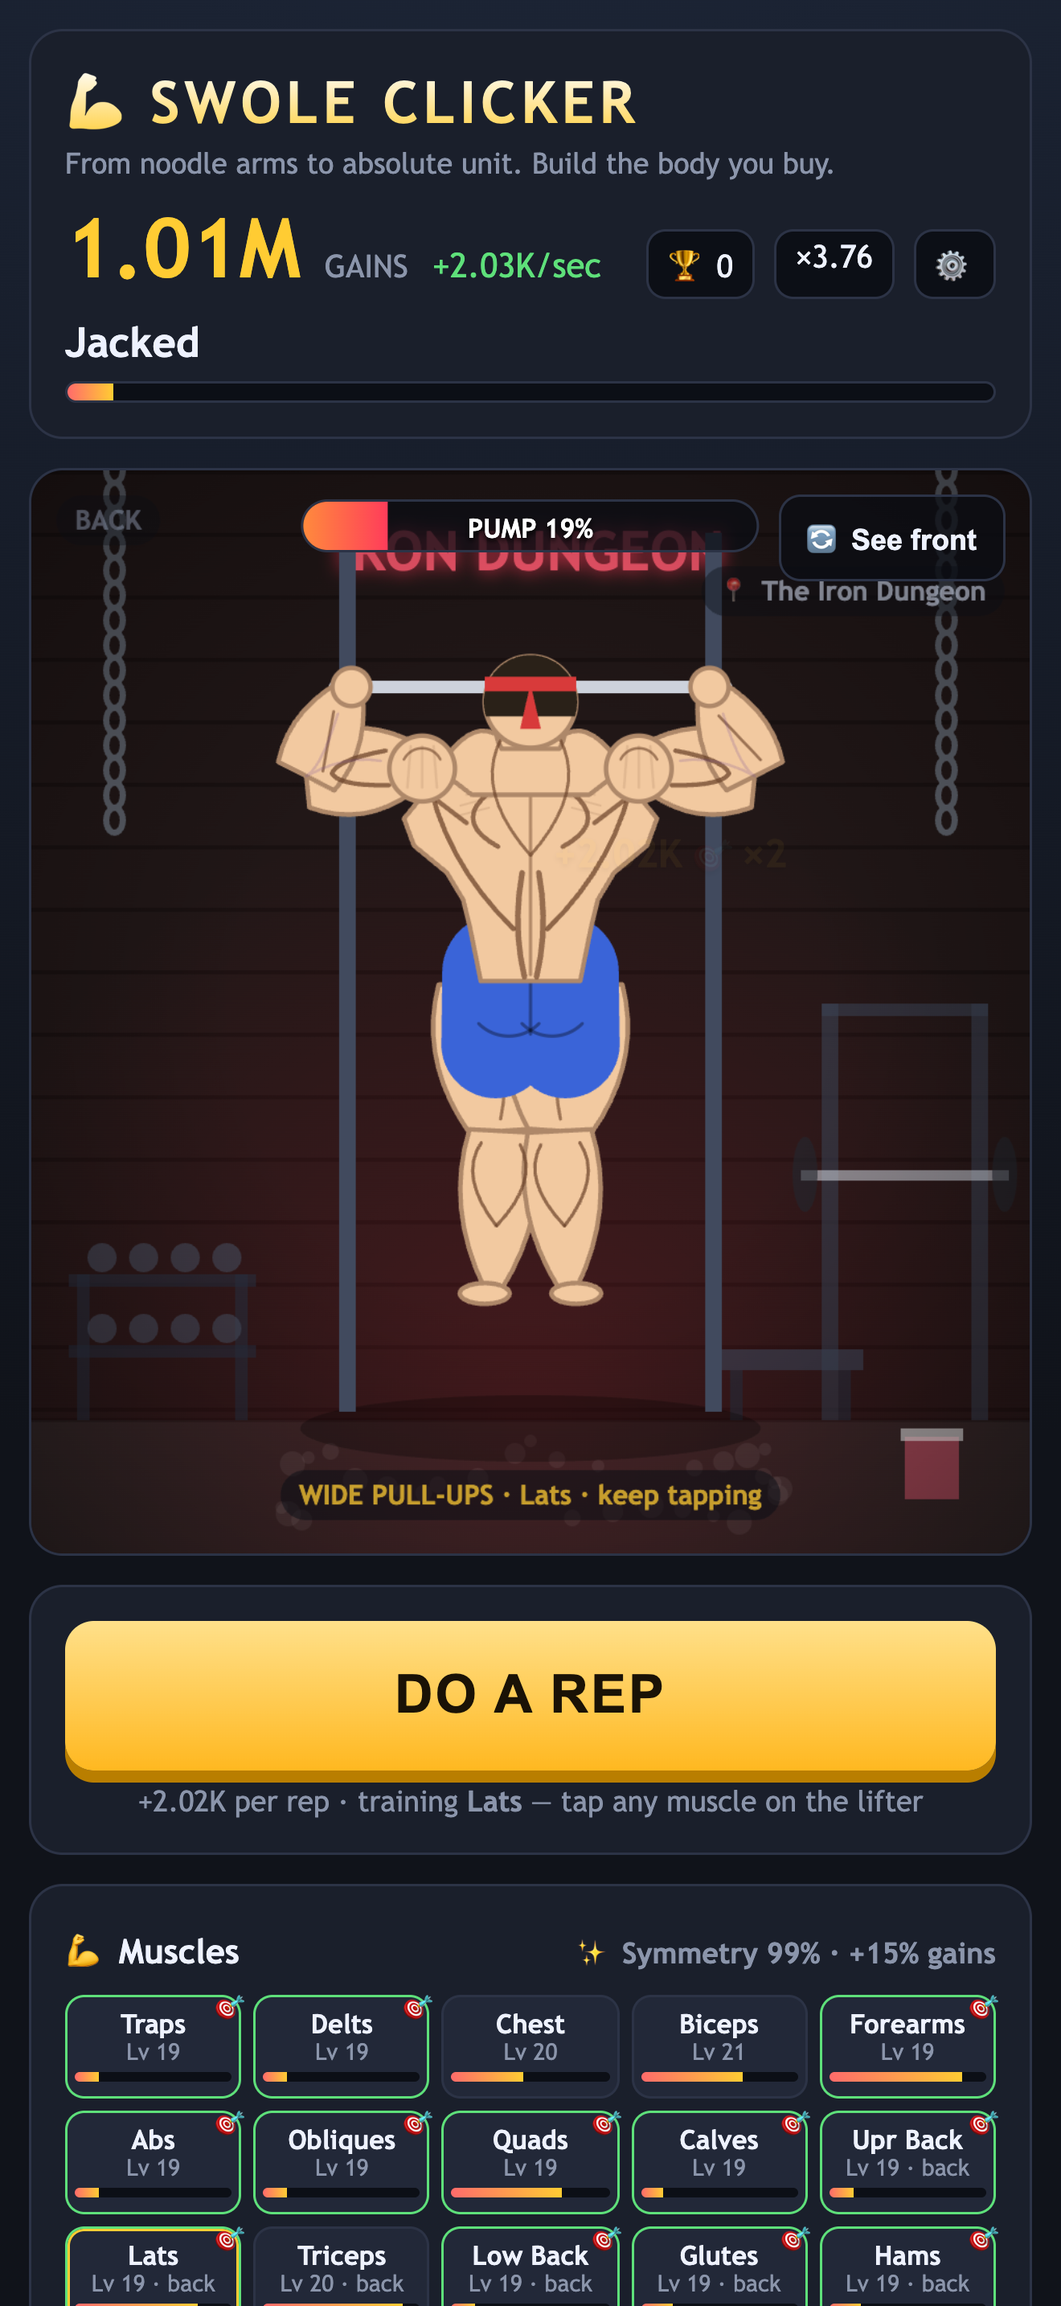
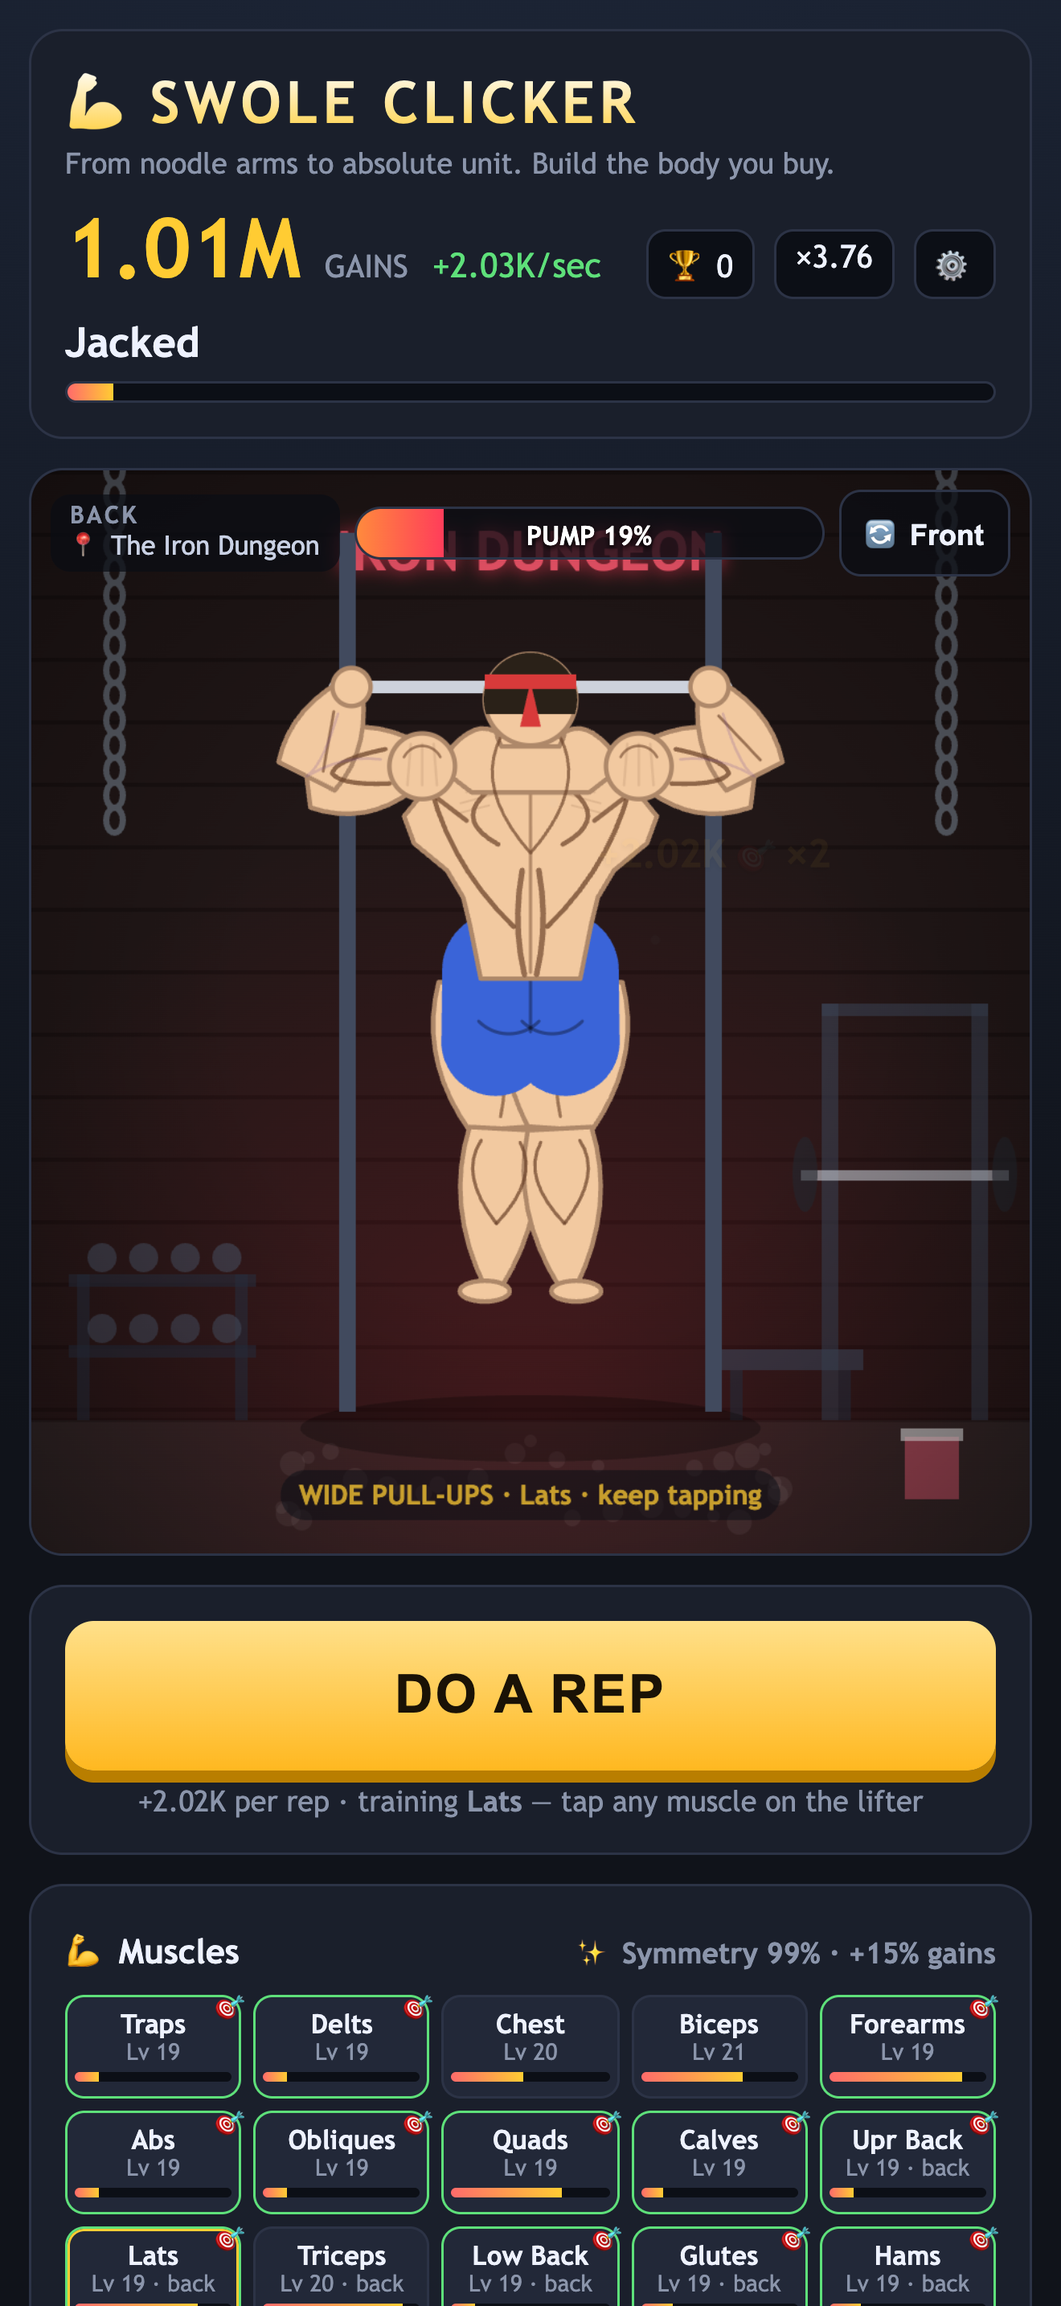
Stage HUD: one flex bar so view/gym, pump bar and turn button never overlap
- View + current gym, pump bar and turn button now share one flex row at the
  top of the stage (gym name truncates instead of colliding); removed the
  canvas-drawn FRONT/gym pills; desktop hover label moved to the bottom
- Active-boost timers sit under the HUD instead of near the bottom labels
- Toasts no longer block taps on the HUD; narrow landscape phones get slimmer
  side columns and a smaller title
- Verified no overlaps at 375x667, 375x812, 440x956, 667x375, 844x390,
  874x402 (with iOS safe areas), 800x450, 768x1024, 1280x720, 1920x1080
- Refreshed App Store screenshots

diff --git a/index.html b/index.html
@@ -65,6 +65,12 @@
     #left > .card{overflow:auto}
     #game #tabs{grid-template-columns:repeat(auto-fill,minmax(88px,1fr))}
   }
+  /* narrow landscape phones (e.g. iPhone SE 667×375): slimmer side columns so the lifter keeps room */
+  @media (orientation:landscape) and (min-width:640px) and (max-width:760px){
+    #game{grid-template-columns:165px minmax(0,1fr) 215px}
+    #game #tabs{grid-template-columns:repeat(2,1fr)}
+    #game h1{font-size:13px; letter-spacing:0}
+  }
   /* short landscape screens (e.g. 800×450): compact the left column */
   @media (orientation:landscape) and (max-height:560px) and (min-width:640px){
     #game{padding:8px; gap:8px}
@@ -166,7 +172,7 @@
   #prestigebtn:disabled{filter:grayscale(.7) brightness(.7); cursor:not-allowed; box-shadow:0 4px 0 #333}
 
   /* toasts + modal */
-  #toasts{position:fixed; top:14px; left:50%; transform:translateX(-50%); z-index:100; display:flex; flex-direction:column; gap:8px; align-items:center}
+  #toasts{position:fixed; top:14px; left:50%; transform:translateX(-50%); z-index:100; pointer-events:none; display:flex; flex-direction:column; gap:8px; align-items:center}
   .toast{background:#241c33; border:1px solid var(--gold); color:#fff; padding:10px 16px; border-radius:10px;
          font-size:14px; box-shadow:0 6px 20px rgba(0,0,0,.5); animation:toastin .3s; max-width:90vw}
   .toast b{color:var(--gold)}
@@ -194,7 +200,7 @@
   #stage.onstage{position:fixed; inset:0; z-index:110; border-radius:0; display:flex; flex-direction:column; align-items:center; justify-content:center;
     background:radial-gradient(ellipse 45% 70% at 50% 35%, rgba(255,240,190,.28), rgba(0,0,0,0) 70%), #07080c}
   #stage.onstage canvas{width:auto; height:min(62vh,560px); max-width:100vw}
-  #stage.onstage .stagebtn, #stage.onstage #pumpbar, #stage.onstage #fxbox, #stage.onstage .gymevt{display:none}
+  #stage.onstage #hud, #stage.onstage #fxbox, #stage.onstage .gymevt{display:none}
   #stageov{width:100%; max-width:560px; padding:0 14px; text-align:center}
   .stitle{position:fixed; top:14px; left:0; right:0; font-size:22px; font-weight:bold; letter-spacing:3px; color:var(--gold); text-shadow:0 0 18px rgba(255,210,74,.6)}
   .judges{display:flex; gap:10px; justify-content:center; margin-top:8px}
@@ -239,13 +245,19 @@
   #tabs{display:grid; grid-template-columns:repeat(4,1fr); gap:6px}
   .tab{white-space:nowrap}
   /* pump meter + active effects */
-  #pumpbar{position:absolute; top:12px; left:50%; transform:translateX(-50%); width:min(46%,220px); height:22px; background:rgba(10,13,20,.72);
-           border:1px solid var(--line); border-radius:11px; overflow:hidden; z-index:2; pointer-events:none}
+  /* stage HUD: one flex row across the top of the stage so its pieces share the width instead of overlapping */
+  #hud{position:absolute; top:8px; left:8px; right:8px; z-index:2; display:flex; align-items:center; gap:6px; pointer-events:none}
+  #hudinfo{flex:0 1 auto; min-width:0; display:flex; flex-direction:column; line-height:1.2; background:rgba(10,13,20,.72);
+           border-radius:8px; padding:3px 8px}
+  #hudinfo b{font-size:10px; letter-spacing:1px; color:var(--muted)}
+  #hudinfo span{font-size:11px; color:#c9d1e4; white-space:nowrap; overflow:hidden; text-overflow:ellipsis}
+  #pumpbar{position:relative; flex:1 1 90px; min-width:64px; max-width:240px; margin:0 auto; height:22px; background:rgba(10,13,20,.72);
+           border:1px solid var(--line); border-radius:11px; overflow:hidden}
   #pumpbar i{position:absolute; left:0; top:0; bottom:0; width:0; background:linear-gradient(90deg,#ff8a3d,#ff3d5a)}
-  #pumpbar span{position:relative; display:block; text-align:center; font-size:11px; font-weight:bold; line-height:22px; color:#fff; text-shadow:0 1px 2px #000}
+  #pumpbar span{position:relative; display:block; text-align:center; font-size:11px; font-weight:bold; line-height:22px; color:#fff; text-shadow:0 1px 2px #000; white-space:nowrap; overflow:hidden; text-overflow:ellipsis; padding:0 4px}
   #stage.beast{box-shadow:0 0 0 2px #ff3d5a, 0 0 28px rgba(255,61,90,.55)}
   #stage.beast #pumpbar{border-color:#ff3d5a}
-  #fxbox{position:absolute; left:10px; bottom:46px; display:flex; flex-direction:column; gap:4px; z-index:2; pointer-events:none}
+  #fxbox{position:absolute; left:10px; top:46px; display:flex; flex-direction:column; align-items:flex-start; gap:4px; z-index:2; pointer-events:none}   /* active boosts sit under the HUD bar */
   #fxbox span{background:rgba(10,13,20,.78); border:1px solid var(--gold); color:#fff; font-size:11px; font-weight:bold; padding:3px 8px; border-radius:8px}
   .gymevt{position:absolute; z-index:3; display:flex; align-items:center; gap:6px; background:rgba(10,13,20,.85); border:2px solid var(--gold); border-radius:20px;
           padding:5px 11px 5px 6px; cursor:pointer; animation:evtpop .3s, evtbob 1.2s ease-in-out infinite .3s; box-shadow:0 0 18px rgba(255,210,74,.45)}
@@ -287,8 +299,8 @@
   .awin{font-size:30px; font-weight:bold; text-align:center; color:var(--gold)} .alose{font-size:24px; font-weight:bold; text-align:center; color:var(--accent2)}
   .arew{font-size:24px; text-align:center; color:var(--good); font-weight:bold}
   /* muscle chips + turn button */
-  .stagebtn{position:absolute; top:10px; right:10px; z-index:2; background:rgba(10,13,20,.72); color:var(--ink);
-            border:1px solid var(--line); border-radius:9px; padding:7px 11px; font-size:12px; font-weight:bold; cursor:pointer}
+  .stagebtn{flex:none; pointer-events:auto; background:rgba(10,13,20,.72); color:var(--ink); white-space:nowrap;
+            border:1px solid var(--line); border-radius:9px; padding:7px 10px; font-size:12px; font-weight:bold; cursor:pointer}
   .stagebtn:hover{border-color:var(--accent)}
   .mushead{display:flex; justify-content:space-between; align-items:baseline; gap:8px; font-weight:bold; font-size:14px}
   .mushead .sub{text-align:right}
@@ -393,8 +405,11 @@
 
     <div id="stage" class="card" style="padding:0">
       <canvas id="c"></canvas>
-      <button id="turnbtn" class="stagebtn">🔄 See back</button>
-      <div id="pumpbar"><i id="pumpfill"></i><span id="pumplabel">PUMP — tap fast!</span></div>
+      <div id="hud">
+        <div id="hudinfo"><b id="hudview">FRONT</b><span id="hudgym"></span></div>
+        <div id="pumpbar"><i id="pumpfill"></i><span id="pumplabel">PUMP</span></div>
+        <button id="turnbtn" class="stagebtn">🔄 Back</button>
+      </div>
       <div id="fxbox"></div>
       <div id="floatwrap"></div>
     </div>
@@ -1873,7 +1888,7 @@ function tickPump(dt){
   if(beastT>0){ beastT=Math.max(0,beastT-dt); pumpMeter=beastT/beastLen(); if(beastT<=0){ pumpMeter=0; $('stage').classList.remove('beast'); } }
   else if(performance.now()-lastRepAt>800) pumpMeter=Math.max(0,pumpMeter-dt*0.25);
   const bar=$('pumpfill'); if(bar){ bar.style.width=(pumpMeter*100).toFixed(1)+'%'; }
-  const lab=$('pumplabel'); if(lab) lab.textContent=beastT>0?`😤 BEAST MODE ${Math.ceil(beastT)}s`:(pumpMeter>0.02?'PUMP '+Math.round(pumpMeter*100)+'%':'PUMP — tap fast!');
+  const lab=$('pumplabel'); if(lab) lab.textContent=beastT>0?`😤 BEAST ${Math.ceil(beastT)}s`:(pumpMeter>0.02?'PUMP '+Math.round(pumpMeter*100)+'%':'PUMP');
 }
 
 //////////////////// GYM EVENTS ////////////////////
@@ -2179,7 +2194,10 @@ function updateMusChips(){
     mu.el.classList.toggle('sel',state.selMuscle===mu.id); mu.el.classList.toggle('weak',w); });
   $('symtxt').textContent = S.symBonus>0 ? `✨ Symmetry ${Math.round(S.sym*100)}% · +${Math.round(S.symBonus*100)}% gains` : '✨ Train evenly for a symmetry bonus'+(S.weakOn?' · 🎯 = weak point ×'+weakMult():'');
 }
-function updateTurnBtn(){ const b=$('turnbtn'); if(b) b.textContent=state.view==='front'?'🔄 See back':'🔄 See front'; }
+function updateTurnBtn(){ const b=$('turnbtn'); if(b) b.textContent=state.view==='front'?'🔄 Back':'🔄 Front'; }
+// HUD text (view + current gym), only touched when it changes
+let hudKey='';
+function updateHud(view){ const g=GYMS[gymTier()].name, k=view+g; if(k===hudKey) return; hudKey=k; $('hudview').textContent=view==='front'?'FRONT':'BACK'; $('hudgym').textContent='📍 '+g; }
 
 //////////////////// LOCKER ROOM (customization UI) ////////////////////
 function locSection(title,node){ const s=document.createElement('div'); s.className='locksec'; const h=document.createElement('div'); h.className='lockh'; h.textContent=title; s.appendChild(h); s.appendChild(node); return s; }
@@ -3097,8 +3115,8 @@ function drawDude(dt){
   // labels (cleanRender: marketing renders from tools/preview.html skip all overlays)
   if(cleanRender) return;
   if(label) drawPill(label,cx,CH-28,'center',active?Math.min(1,0.4+exEnergy):0.55,active?'#ffcc33':'#c9d1e4');
-  if(hoverMus){ const L=S.lvl[hoverMus]; drawPill(MUS[hoverMus].name+' · Lv '+L+(isWeak(hoverMus)?'  🎯 ×'+weakMult():''),12,24,'left',1,'#ffcc33'); }
-  if(!stageOn){ drawPill(view==='front'?'FRONT':'BACK',12,hoverMus?54:24,'left',0.5,'#8b95ab'); drawPill('📍 '+GYMS[gymTier()].name,CW-12,58,'right',0.6,'#c9d1e4'); }
+  if(hoverMus){ const L=S.lvl[hoverMus]; drawPill(MUS[hoverMus].name+' · Lv '+L+(isWeak(hoverMus)?'  🎯 ×'+weakMult():''),CW/2,CH-60,'center',1,'#ffcc33'); }
+  updateHud(view);
 }
 
 //////////////////// LOOP ////////////////////

diff --git a/ios/SwoleClicker/Web/index.html b/ios/SwoleClicker/Web/index.html
@@ -49,6 +49,12 @@
     #left > .card{overflow:auto}
     #game #tabs{grid-template-columns:repeat(auto-fill,minmax(88px,1fr))}
   }
+  /* narrow landscape phones (e.g. iPhone SE 667×375): slimmer side columns so the lifter keeps room */
+  @media (orientation:landscape) and (min-width:640px) and (max-width:760px){
+    #game{grid-template-columns:165px minmax(0,1fr) 215px}
+    #game #tabs{grid-template-columns:repeat(2,1fr)}
+    #game h1{font-size:13px; letter-spacing:0}
+  }
   /* short landscape screens (e.g. 800×450): compact the left column */
   @media (orientation:landscape) and (max-height:560px) and (min-width:640px){
     #game{padding:8px; gap:8px}
@@ -150,7 +156,7 @@
   #prestigebtn:disabled{filter:grayscale(.7) brightness(.7); cursor:not-allowed; box-shadow:0 4px 0 #333}
 
   /* toasts + modal */
-  #toasts{position:fixed; top:14px; left:50%; transform:translateX(-50%); z-index:100; display:flex; flex-direction:column; gap:8px; align-items:center}
+  #toasts{position:fixed; top:14px; left:50%; transform:translateX(-50%); z-index:100; pointer-events:none; display:flex; flex-direction:column; gap:8px; align-items:center}
   .toast{background:#241c33; border:1px solid var(--gold); color:#fff; padding:10px 16px; border-radius:10px;
          font-size:14px; box-shadow:0 6px 20px rgba(0,0,0,.5); animation:toastin .3s; max-width:90vw}
   .toast b{color:var(--gold)}
@@ -178,7 +184,7 @@
   #stage.onstage{position:fixed; inset:0; z-index:110; border-radius:0; display:flex; flex-direction:column; align-items:center; justify-content:center;
     background:radial-gradient(ellipse 45% 70% at 50% 35%, rgba(255,240,190,.28), rgba(0,0,0,0) 70%), #07080c}
   #stage.onstage canvas{width:auto; height:min(62vh,560px); max-width:100vw}
-  #stage.onstage .stagebtn, #stage.onstage #pumpbar, #stage.onstage #fxbox, #stage.onstage .gymevt{display:none}
+  #stage.onstage #hud, #stage.onstage #fxbox, #stage.onstage .gymevt{display:none}
   #stageov{width:100%; max-width:560px; padding:0 14px; text-align:center}
   .stitle{position:fixed; top:14px; left:0; right:0; font-size:22px; font-weight:bold; letter-spacing:3px; color:var(--gold); text-shadow:0 0 18px rgba(255,210,74,.6)}
   .judges{display:flex; gap:10px; justify-content:center; margin-top:8px}
@@ -223,13 +229,19 @@
   #tabs{display:grid; grid-template-columns:repeat(4,1fr); gap:6px}
   .tab{white-space:nowrap}
   /* pump meter + active effects */
-  #pumpbar{position:absolute; top:12px; left:50%; transform:translateX(-50%); width:min(46%,220px); height:22px; background:rgba(10,13,20,.72);
-           border:1px solid var(--line); border-radius:11px; overflow:hidden; z-index:2; pointer-events:none}
+  /* stage HUD: one flex row across the top of the stage so its pieces share the width instead of overlapping */
+  #hud{position:absolute; top:8px; left:8px; right:8px; z-index:2; display:flex; align-items:center; gap:6px; pointer-events:none}
+  #hudinfo{flex:0 1 auto; min-width:0; display:flex; flex-direction:column; line-height:1.2; background:rgba(10,13,20,.72);
+           border-radius:8px; padding:3px 8px}
+  #hudinfo b{font-size:10px; letter-spacing:1px; color:var(--muted)}
+  #hudinfo span{font-size:11px; color:#c9d1e4; white-space:nowrap; overflow:hidden; text-overflow:ellipsis}
+  #pumpbar{position:relative; flex:1 1 90px; min-width:64px; max-width:240px; margin:0 auto; height:22px; background:rgba(10,13,20,.72);
+           border:1px solid var(--line); border-radius:11px; overflow:hidden}
   #pumpbar i{position:absolute; left:0; top:0; bottom:0; width:0; background:linear-gradient(90deg,#ff8a3d,#ff3d5a)}
-  #pumpbar span{position:relative; display:block; text-align:center; font-size:11px; font-weight:bold; line-height:22px; color:#fff; text-shadow:0 1px 2px #000}
+  #pumpbar span{position:relative; display:block; text-align:center; font-size:11px; font-weight:bold; line-height:22px; color:#fff; text-shadow:0 1px 2px #000; white-space:nowrap; overflow:hidden; text-overflow:ellipsis; padding:0 4px}
   #stage.beast{box-shadow:0 0 0 2px #ff3d5a, 0 0 28px rgba(255,61,90,.55)}
   #stage.beast #pumpbar{border-color:#ff3d5a}
-  #fxbox{position:absolute; left:10px; bottom:46px; display:flex; flex-direction:column; gap:4px; z-index:2; pointer-events:none}
+  #fxbox{position:absolute; left:10px; top:46px; display:flex; flex-direction:column; align-items:flex-start; gap:4px; z-index:2; pointer-events:none}   /* active boosts sit under the HUD bar */
   #fxbox span{background:rgba(10,13,20,.78); border:1px solid var(--gold); color:#fff; font-size:11px; font-weight:bold; padding:3px 8px; border-radius:8px}
   .gymevt{position:absolute; z-index:3; display:flex; align-items:center; gap:6px; background:rgba(10,13,20,.85); border:2px solid var(--gold); border-radius:20px;
           padding:5px 11px 5px 6px; cursor:pointer; animation:evtpop .3s, evtbob 1.2s ease-in-out infinite .3s; box-shadow:0 0 18px rgba(255,210,74,.45)}
@@ -271,8 +283,8 @@
   .awin{font-size:30px; font-weight:bold; text-align:center; color:var(--gold)} .alose{font-size:24px; font-weight:bold; text-align:center; color:var(--accent2)}
   .arew{font-size:24px; text-align:center; color:var(--good); font-weight:bold}
   /* muscle chips + turn button */
-  .stagebtn{position:absolute; top:10px; right:10px; z-index:2; background:rgba(10,13,20,.72); color:var(--ink);
-            border:1px solid var(--line); border-radius:9px; padding:7px 11px; font-size:12px; font-weight:bold; cursor:pointer}
+  .stagebtn{flex:none; pointer-events:auto; background:rgba(10,13,20,.72); color:var(--ink); white-space:nowrap;
+            border:1px solid var(--line); border-radius:9px; padding:7px 10px; font-size:12px; font-weight:bold; cursor:pointer}
   .stagebtn:hover{border-color:var(--accent)}
   .mushead{display:flex; justify-content:space-between; align-items:baseline; gap:8px; font-weight:bold; font-size:14px}
   .mushead .sub{text-align:right}
@@ -377,8 +389,11 @@
 
     <div id="stage" class="card" style="padding:0">
       <canvas id="c"></canvas>
-      <button id="turnbtn" class="stagebtn">🔄 See back</button>
-      <div id="pumpbar"><i id="pumpfill"></i><span id="pumplabel">PUMP — tap fast!</span></div>
+      <div id="hud">
+        <div id="hudinfo"><b id="hudview">FRONT</b><span id="hudgym"></span></div>
+        <div id="pumpbar"><i id="pumpfill"></i><span id="pumplabel">PUMP</span></div>
+        <button id="turnbtn" class="stagebtn">🔄 Back</button>
+      </div>
       <div id="fxbox"></div>
       <div id="floatwrap"></div>
     </div>
@@ -1857,7 +1872,7 @@ function tickPump(dt){
   if(beastT>0){ beastT=Math.max(0,beastT-dt); pumpMeter=beastT/beastLen(); if(beastT<=0){ pumpMeter=0; $('stage').classList.remove('beast'); } }
   else if(performance.now()-lastRepAt>800) pumpMeter=Math.max(0,pumpMeter-dt*0.25);
   const bar=$('pumpfill'); if(bar){ bar.style.width=(pumpMeter*100).toFixed(1)+'%'; }
-  const lab=$('pumplabel'); if(lab) lab.textContent=beastT>0?`😤 BEAST MODE ${Math.ceil(beastT)}s`:(pumpMeter>0.02?'PUMP '+Math.round(pumpMeter*100)+'%':'PUMP — tap fast!');
+  const lab=$('pumplabel'); if(lab) lab.textContent=beastT>0?`😤 BEAST ${Math.ceil(beastT)}s`:(pumpMeter>0.02?'PUMP '+Math.round(pumpMeter*100)+'%':'PUMP');
 }
 
 //////////////////// GYM EVENTS ////////////////////
@@ -2163,7 +2178,10 @@ function updateMusChips(){
     mu.el.classList.toggle('sel',state.selMuscle===mu.id); mu.el.classList.toggle('weak',w); });
   $('symtxt').textContent = S.symBonus>0 ? `✨ Symmetry ${Math.round(S.sym*100)}% · +${Math.round(S.symBonus*100)}% gains` : '✨ Train evenly for a symmetry bonus'+(S.weakOn?' · 🎯 = weak point ×'+weakMult():'');
 }
-function updateTurnBtn(){ const b=$('turnbtn'); if(b) b.textContent=state.view==='front'?'🔄 See back':'🔄 See front'; }
+function updateTurnBtn(){ const b=$('turnbtn'); if(b) b.textContent=state.view==='front'?'🔄 Back':'🔄 Front'; }
+// HUD text (view + current gym), only touched when it changes
+let hudKey='';
+function updateHud(view){ const g=GYMS[gymTier()].name, k=view+g; if(k===hudKey) return; hudKey=k; $('hudview').textContent=view==='front'?'FRONT':'BACK'; $('hudgym').textContent='📍 '+g; }
 
 //////////////////// LOCKER ROOM (customization UI) ////////////////////
 function locSection(title,node){ const s=document.createElement('div'); s.className='locksec'; const h=document.createElement('div'); h.className='lockh'; h.textContent=title; s.appendChild(h); s.appendChild(node); return s; }
@@ -3081,8 +3099,8 @@ function drawDude(dt){
   // labels (cleanRender: marketing renders from tools/preview.html skip all overlays)
   if(cleanRender) return;
   if(label) drawPill(label,cx,CH-28,'center',active?Math.min(1,0.4+exEnergy):0.55,active?'#ffcc33':'#c9d1e4');
-  if(hoverMus){ const L=S.lvl[hoverMus]; drawPill(MUS[hoverMus].name+' · Lv '+L+(isWeak(hoverMus)?'  🎯 ×'+weakMult():''),12,24,'left',1,'#ffcc33'); }
-  if(!stageOn){ drawPill(view==='front'?'FRONT':'BACK',12,hoverMus?54:24,'left',0.5,'#8b95ab'); drawPill('📍 '+GYMS[gymTier()].name,CW-12,58,'right',0.6,'#c9d1e4'); }
+  if(hoverMus){ const L=S.lvl[hoverMus]; drawPill(MUS[hoverMus].name+' · Lv '+L+(isWeak(hoverMus)?'  🎯 ×'+weakMult():''),CW/2,CH-60,'center',1,'#ffcc33'); }
+  updateHud(view);
 }
 
 //////////////////// LOOP ////////////////////
